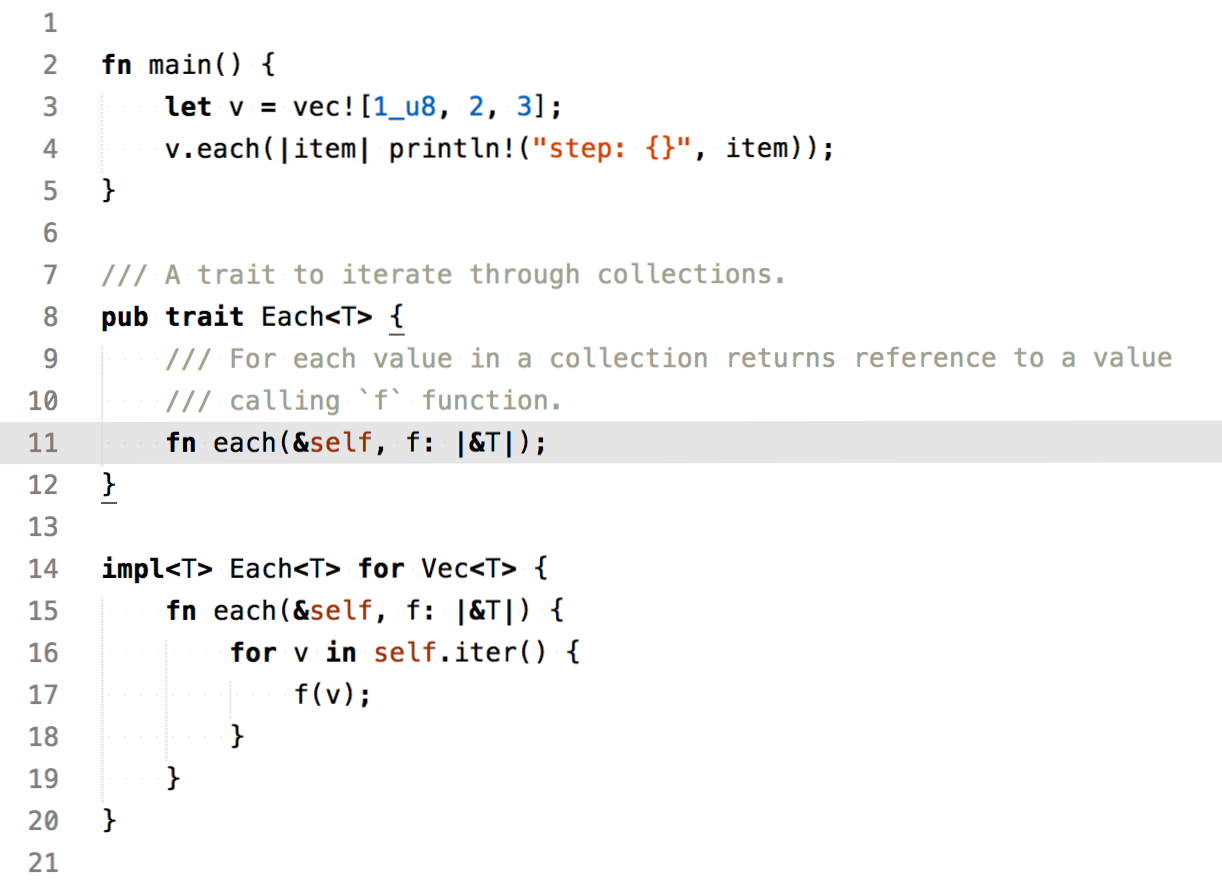
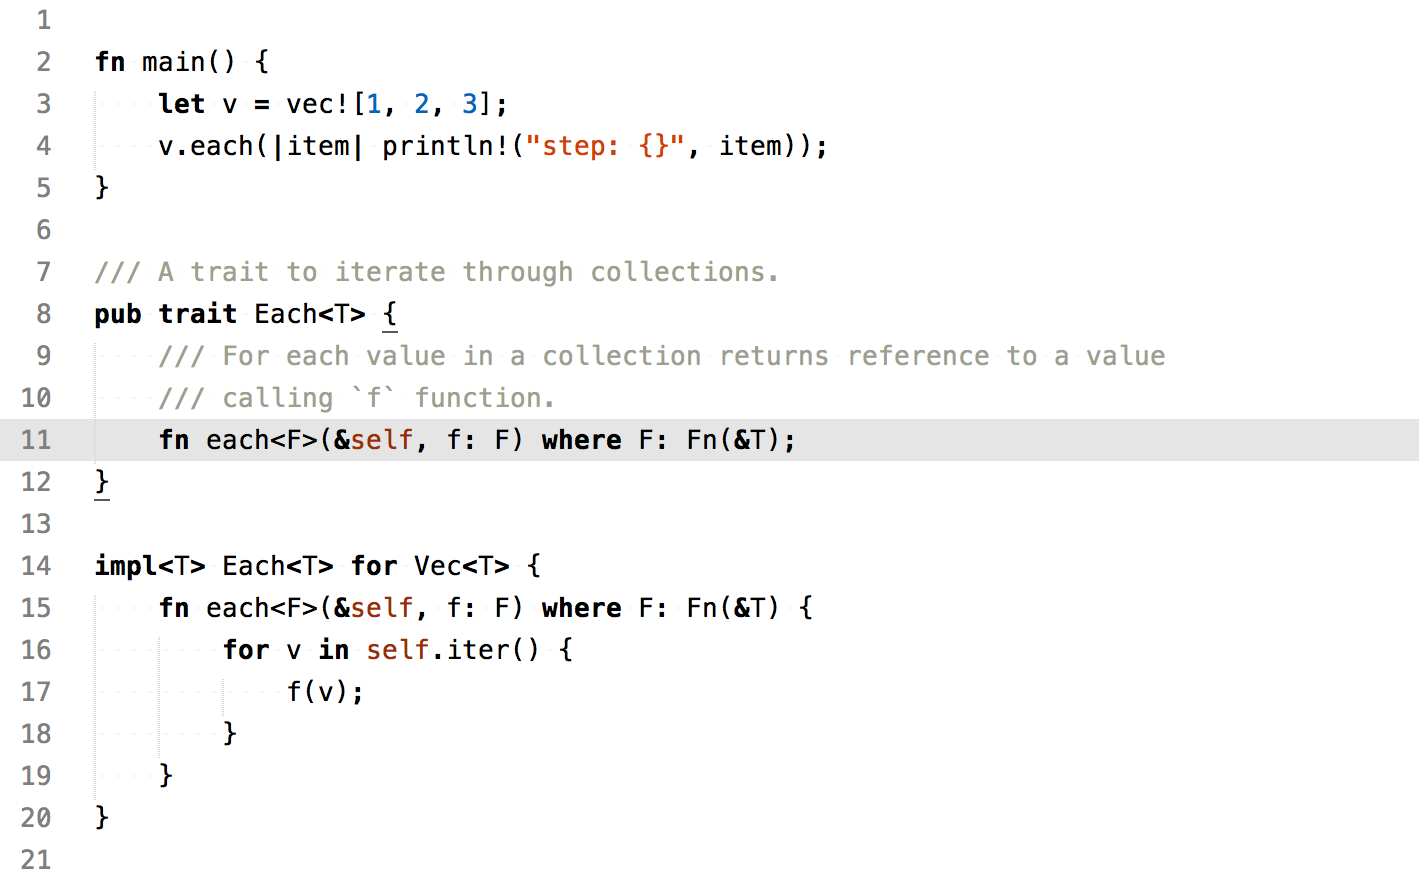
Updated rust.rs example.

diff --git a/examples/rust.rs b/examples/rust.rs
@@ -1,6 +1,6 @@
 
 fn main() {
-    let v = vec![1_u8, 2, 3];
+    let v = vec![1, 2, 3];
     v.each(|item| println!("step: {}", item));
 }
 
@@ -8,11 +8,11 @@ fn main() {
 pub trait Each<T> {
     /// For each value in a collection returns reference to a value
     /// calling `f` function.
-    fn each(&self, f: |&T|);
+    fn each<F>(&self, f: F) where F: Fn(&T);
 }
 
 impl<T> Each<T> for Vec<T> {
-    fn each(&self, f: |&T|) {
+    fn each<F>(&self, f: F) where F: Fn(&T) {
         for v in self.iter() {
             f(v);
         }
